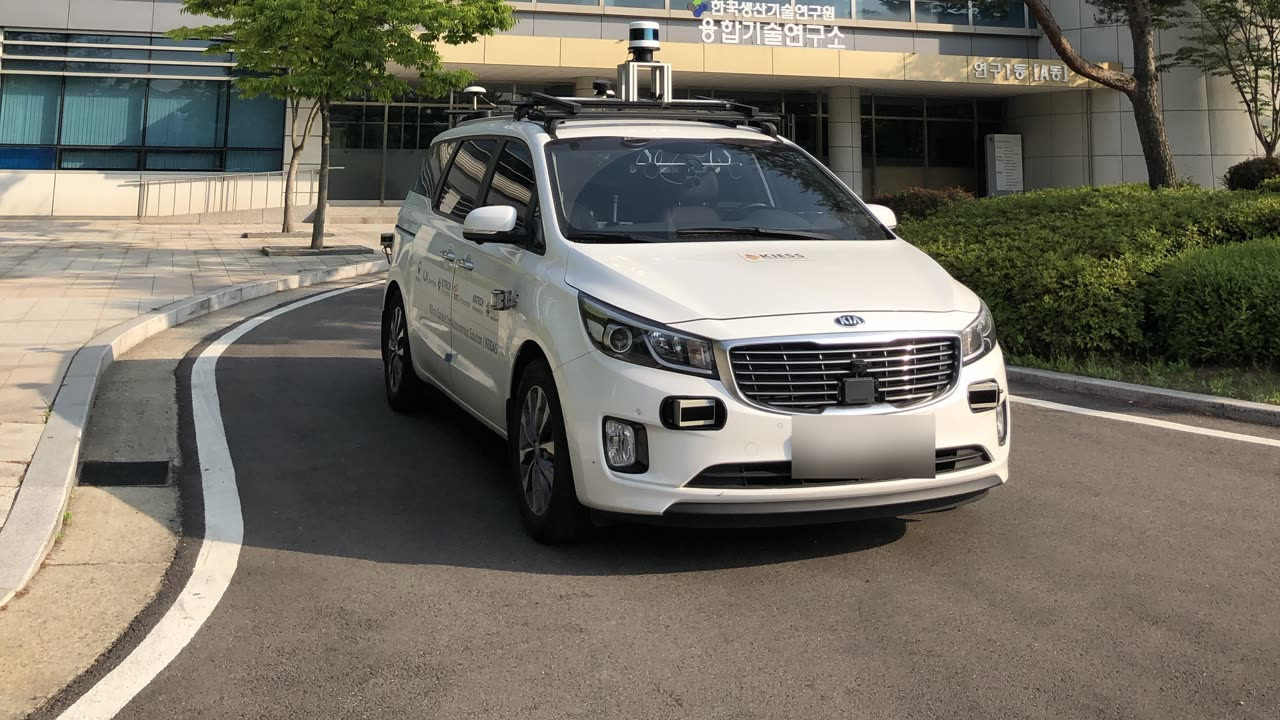
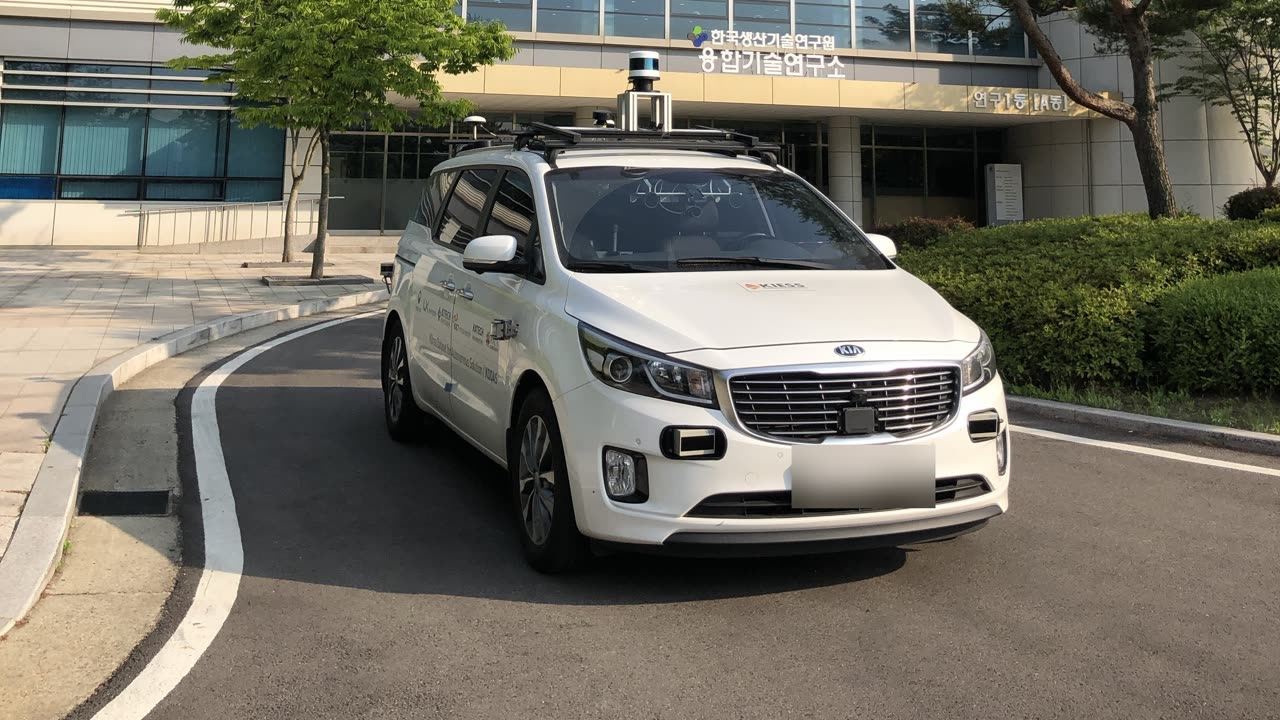
Add click to enlarge, and version the css and js urls
Clicking any demo, paper figure or news thumbnail opens it at full
size over a dark backdrop, closing on the backdrop, the button or
Escape, with the page scroll locked while it is open. Videos keep
looping there and gain controls.

The overlay needed an explicit [hidden] rule: display:flex beats the
user agent's, so without it an invisible layer sat over the page and
swallowed every click.

Stylesheet and script urls now carry a hash of their contents, so a
deploy that only touches them still reaches returning visitors.

The survey vehicle photo is reframed slightly lower.

Claude-Session: https://claude.ai/code/session_01AmCim7K8JWgkSqikwYxvPQ

diff --git a/assets/js/main.js b/assets/js/main.js
@@ -42,3 +42,77 @@
     });
   });
 })();
+
+// Click any figure or clip to see it at full size.
+(function () {
+  var SELECTOR = '.demo-frame img, .demo-frame video, .pub-thumb, .news-thumb';
+
+  document.addEventListener('DOMContentLoaded', function () {
+    var targets = document.querySelectorAll(SELECTOR);
+    if (!targets.length) return;
+
+    var box = document.createElement('div');
+    box.className = 'lightbox';
+    box.setAttribute('role', 'dialog');
+    box.setAttribute('aria-modal', 'true');
+    box.hidden = true;
+
+    var closeBtn = document.createElement('button');
+    closeBtn.className = 'lightbox-close';
+    closeBtn.type = 'button';
+    closeBtn.setAttribute('aria-label', 'Close');
+    closeBtn.innerHTML = '&times;';
+    box.appendChild(closeBtn);
+    document.body.appendChild(box);
+
+    var shown = null;
+    var opener = null;
+
+    function open(el) {
+      var node;
+      if (el.tagName === 'VIDEO') {
+        node = document.createElement('video');
+        node.src = el.currentSrc || el.src;
+        node.autoplay = true;
+        node.loop = true;
+        node.muted = true;
+        node.playsInline = true;
+        node.controls = true;
+      } else {
+        node = document.createElement('img');
+        node.src = el.currentSrc || el.src;
+        node.alt = el.alt || '';
+      }
+      if (shown) box.removeChild(shown);
+      shown = node;
+      box.appendChild(node);
+      box.hidden = false;
+      document.body.classList.add('lightbox-open');
+      opener = el;
+      closeBtn.focus();
+    }
+
+    function close() {
+      box.hidden = true;
+      document.body.classList.remove('lightbox-open');
+      if (shown) { box.removeChild(shown); shown = null; }
+      if (opener && opener.focus) { opener.focus(); }
+      opener = null;
+    }
+
+    Array.prototype.forEach.call(targets, function (el) {
+      el.classList.add('zoomable');
+      el.tabIndex = 0;
+      el.addEventListener('click', function () { open(el); });
+      el.addEventListener('keydown', function (e) {
+        if (e.key === 'Enter' || e.key === ' ') { e.preventDefault(); open(el); }
+      });
+    });
+
+    closeBtn.addEventListener('click', close);
+    box.addEventListener('click', function (e) { if (e.target === box) close(); });
+    document.addEventListener('keydown', function (e) {
+      if (e.key === 'Escape' && !box.hidden) close();
+    });
+  });
+})();

diff --git a/assets/css/style.css b/assets/css/style.css
@@ -258,6 +258,40 @@ details.more > summary::after { content: "▾"; font-size: .7rem; transition: tr
 details.more[open] > summary::after { transform: rotate(180deg); }
 details.more > summary:hover { color: var(--accent); }
 
+/* ---------- Lightbox ---------- */
+.zoomable { cursor: zoom-in; }
+.zoomable:focus-visible { outline: 2px solid var(--accent); outline-offset: 3px; }
+
+/* Visible whenever it is not hidden, so it can never get stuck transparent.
+   The fade is an animation that replays each time display leaves none.
+   The [hidden] rule is required: display:flex would otherwise beat the user
+   agent's [hidden] rule and leave an invisible overlay eating every click. */
+.lightbox {
+  position: fixed; inset: 0; z-index: 100;
+  background: rgba(8, 10, 14, .93);
+  display: flex; align-items: center; justify-content: center;
+  padding: 40px 24px;
+  opacity: 1;
+  animation: lightbox-in .16s ease;
+}
+.lightbox[hidden] { display: none; }
+@keyframes lightbox-in { from { opacity: 0 } to { opacity: 1 } }
+.lightbox img, .lightbox video {
+  max-width: 100%; max-height: 100%; width: auto; height: auto;
+  display: block; border-radius: 8px; box-shadow: 0 12px 60px rgba(0, 0, 0, .65);
+}
+.lightbox-close {
+  position: absolute; top: 16px; right: 18px; width: 40px; height: 40px;
+  display: flex; align-items: center; justify-content: center;
+  border: 1px solid rgba(255, 255, 255, .28); border-radius: 50%;
+  background: rgba(0, 0, 0, .45); color: #fff;
+  font-size: 22px; line-height: 1; cursor: pointer;
+}
+.lightbox-close:hover { background: rgba(0, 0, 0, .75); border-color: rgba(255, 255, 255, .5); }
+body.lightbox-open { overflow: hidden; }
+
+@media (max-width: 640px) { .lightbox { padding: 52px 12px 24px; } }
+
 /* ---------- Footer ---------- */
 .footer {
   margin-top: 56px; border-top: 1px solid var(--border); padding: 24px 0 40px;

diff --git a/build.js b/build.js
@@ -10,6 +10,13 @@
 
 const fs = require('fs');
 const path = require('path');
+const crypto = require('crypto');
+
+// Browsers cache assets/css/style.css and assets/js/main.js by URL, so a
+// deploy that only changes them would not reach returning visitors. Append a
+// short content hash to bust that.
+const stamp = (rel) =>
+  `${rel}?v=${crypto.createHash('md5').update(fs.readFileSync(path.join(ROOT, rel))).digest('hex').slice(0, 8)}`;
 
 const ROOT = __dirname;
 const data = JSON.parse(fs.readFileSync(path.join(ROOT, 'data', 'profile.json'), 'utf8'));
@@ -73,7 +80,7 @@ ${extraMeta}
 <link rel="preconnect" href="https://fonts.googleapis.com">
 <link rel="preconnect" href="https://fonts.gstatic.com" crossorigin>
 <link href="https://fonts.googleapis.com/css2?family=Inter:wght@400;500;600;700&display=swap" rel="stylesheet">
-<link rel="stylesheet" href="assets/css/style.css">
+<link rel="stylesheet" href="${stamp('assets/css/style.css')}">
 <script>
   // Set the theme before first paint to avoid a flash.
   (function(){try{var t=localStorage.getItem('theme');if(t==='light'||t==='dark')document.documentElement.setAttribute('data-theme',t);}catch(e){}})();
@@ -107,7 +114,7 @@ function footer() {
   <div>© ${year} ${esc(data.profile.name)} · ${esc(data.profile.location)}</div>
   <div><a href="mailto:${esc(data.profile.email)}">${esc(data.profile.email)}</a></div>
 </footer>
-<script src="assets/js/main.js"></script>
+<script src="${stamp('assets/js/main.js')}"></script>
 </body>
 </html>`;
 }

diff --git a/index.html b/index.html
@@ -16,7 +16,7 @@
 <link rel="preconnect" href="https://fonts.googleapis.com">
 <link rel="preconnect" href="https://fonts.gstatic.com" crossorigin>
 <link href="https://fonts.googleapis.com/css2?family=Inter:wght@400;500;600;700&display=swap" rel="stylesheet">
-<link rel="stylesheet" href="assets/css/style.css">
+<link rel="stylesheet" href="assets/css/style.css?v=98aa8466">
 <script>
   // Set the theme before first paint to avoid a flash.
   (function(){try{var t=localStorage.getItem('theme');if(t==='light'||t==='dark')document.documentElement.setAttribute('data-theme',t);}catch(e){}})();
@@ -233,6 +233,6 @@
   <div>© 2026 Hyeon Jun Lim · Seoul, South Korea</div>
   <div><a href="mailto:kyle13@yonsei.ac.kr">kyle13@yonsei.ac.kr</a></div>
 </footer>
-<script src="assets/js/main.js"></script>
+<script src="assets/js/main.js?v=3b80772e"></script>
 </body>
 </html>

diff --git a/publications.html b/publications.html
@@ -16,7 +16,7 @@
 <link rel="preconnect" href="https://fonts.googleapis.com">
 <link rel="preconnect" href="https://fonts.gstatic.com" crossorigin>
 <link href="https://fonts.googleapis.com/css2?family=Inter:wght@400;500;600;700&display=swap" rel="stylesheet">
-<link rel="stylesheet" href="assets/css/style.css">
+<link rel="stylesheet" href="assets/css/style.css?v=98aa8466">
 <script>
   // Set the theme before first paint to avoid a flash.
   (function(){try{var t=localStorage.getItem('theme');if(t==='light'||t==='dark')document.documentElement.setAttribute('data-theme',t);}catch(e){}})();
@@ -247,6 +247,6 @@
   <div>© 2026 Hyeon Jun Lim · Seoul, South Korea</div>
   <div><a href="mailto:kyle13@yonsei.ac.kr">kyle13@yonsei.ac.kr</a></div>
 </footer>
-<script src="assets/js/main.js"></script>
+<script src="assets/js/main.js?v=3b80772e"></script>
 </body>
 </html>
